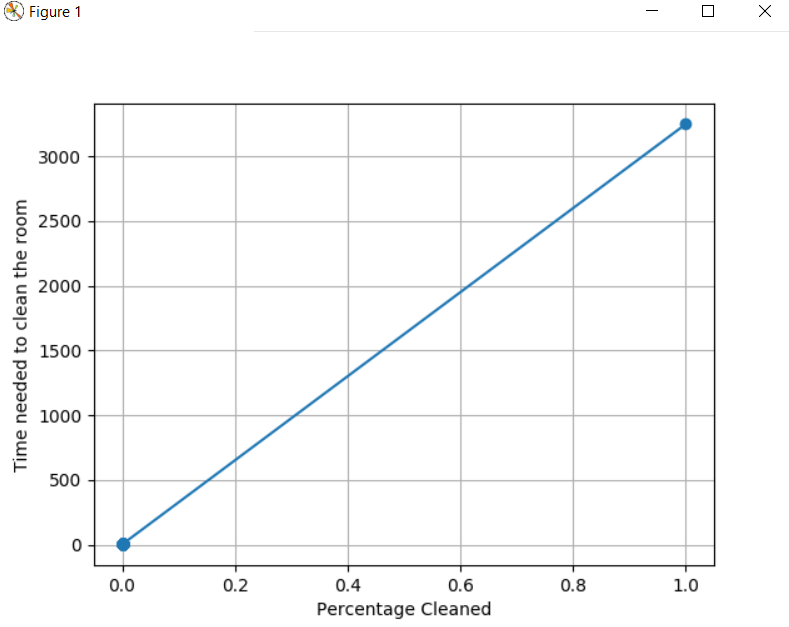
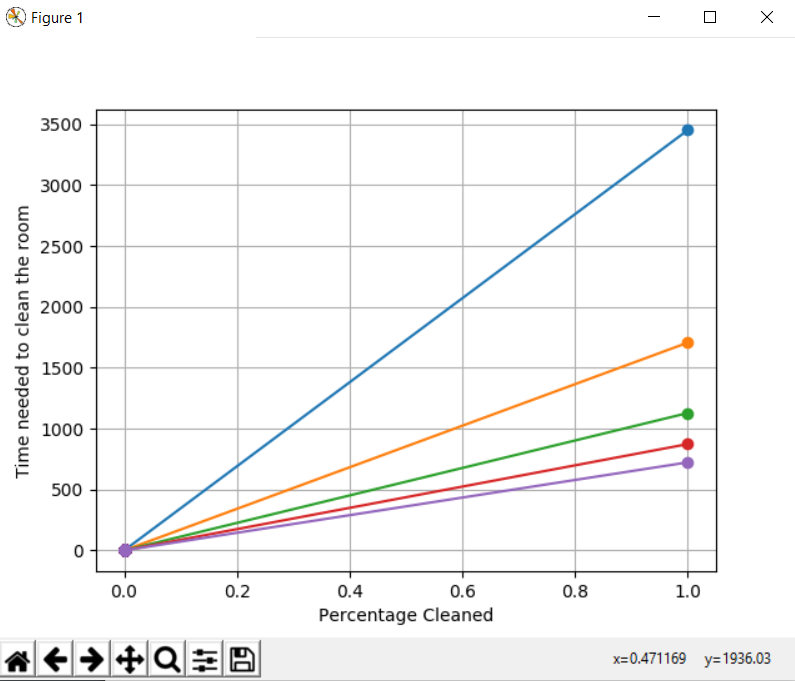
modified image

diff --git a/ps11.py b/ps11.py
@@ -519,7 +519,7 @@ def showPlot4(numberOfRobots, room, percentageToClean, robotType, show):
     if show == True:
         plt.show()
 
-showPlot4(1, {'width': 25, 'height': 25}, 0.75, Robot, True)
+showPlot4(5, {'width': 25, 'height': 25}, 0.75, Robot, True)
 
 
 # === Problem 5

diff --git a/README.md b/README.md
@@ -17,23 +17,25 @@ Each step is also explained in the inline comments.
 
 If you uncomment the ‘anim’ in the ‘runSimulation’ you will be able to see the robot moving in the room:
 
-Photo of robot movement
 <img src='https://github.com/nos111/MIT-OCW/blob/master/Introduction%20to%20Computer%20Science%20(fall%202008)/assignment11/images/RobotMovementSimulation.jpg?raw=true'>
 
 
 Functions to provide analytical data are provided:
--“showPlot1”  Produces a plot showing dependence of cleaning time on room size.
+<h2>-“showPlot1”  Produces a plot showing dependence of cleaning time on room size.</h2>
 <img src='https://github.com/nos111/MIT-OCW/blob/master/Introduction%20to%20Computer%20Science%20(fall%202008)/assignment11/images/GraphTimeXRoomSize.jpg?raw=true'>
 
-- “showPlot2’ Produces a plot showing dependence of cleaning time on number of robots.
+<h2>-“showPlot2’ Produces a plot showing dependence of cleaning time on number of robots.</h2>
 <img src='https://github.com/nos111/MIT-OCW/blob/master/Introduction%20to%20Computer%20Science%20(fall%202008)/assignment11/images/GraphTimeVSRobotsNumber.jpg?raw=true'>
 
 
-- “showPlot3” Produces a plot showing dependence of cleaning time on room shape.
+<h2>-“showPlot3” Produces a plot showing dependence of cleaning time on room shape.
+</h2>
 <img src="https://github.com/nos111/MIT-OCW/blob/master/Introduction%20to%20Computer%20Science%20(fall%202008)/assignment11/images/GraphTimeVSRoomSizeRatio.jpg?raw=true">
 
-- “showPlot4” Produces a plot showing cleaning time vs. percentage cleaned, for
-    each of 1-5 robots.
+<h2>-“showPlot4” Produces a plot showing cleaning time vs. percentage cleaned, for
+each of 1-5 robots.
+</h2>
 <img src="https://github.com/nos111/MIT-OCW/blob/master/Introduction%20to%20Computer%20Science%20(fall%202008)/assignment11/images/GraphTimeVSPercentageCleaned.png?raw=true">
 
-- "showPlot5" Produces a plot comparing the two robot strategies.
+<h2>-"showPlot5" Produces a plot comparing the two robot strategies.
+</h2>
